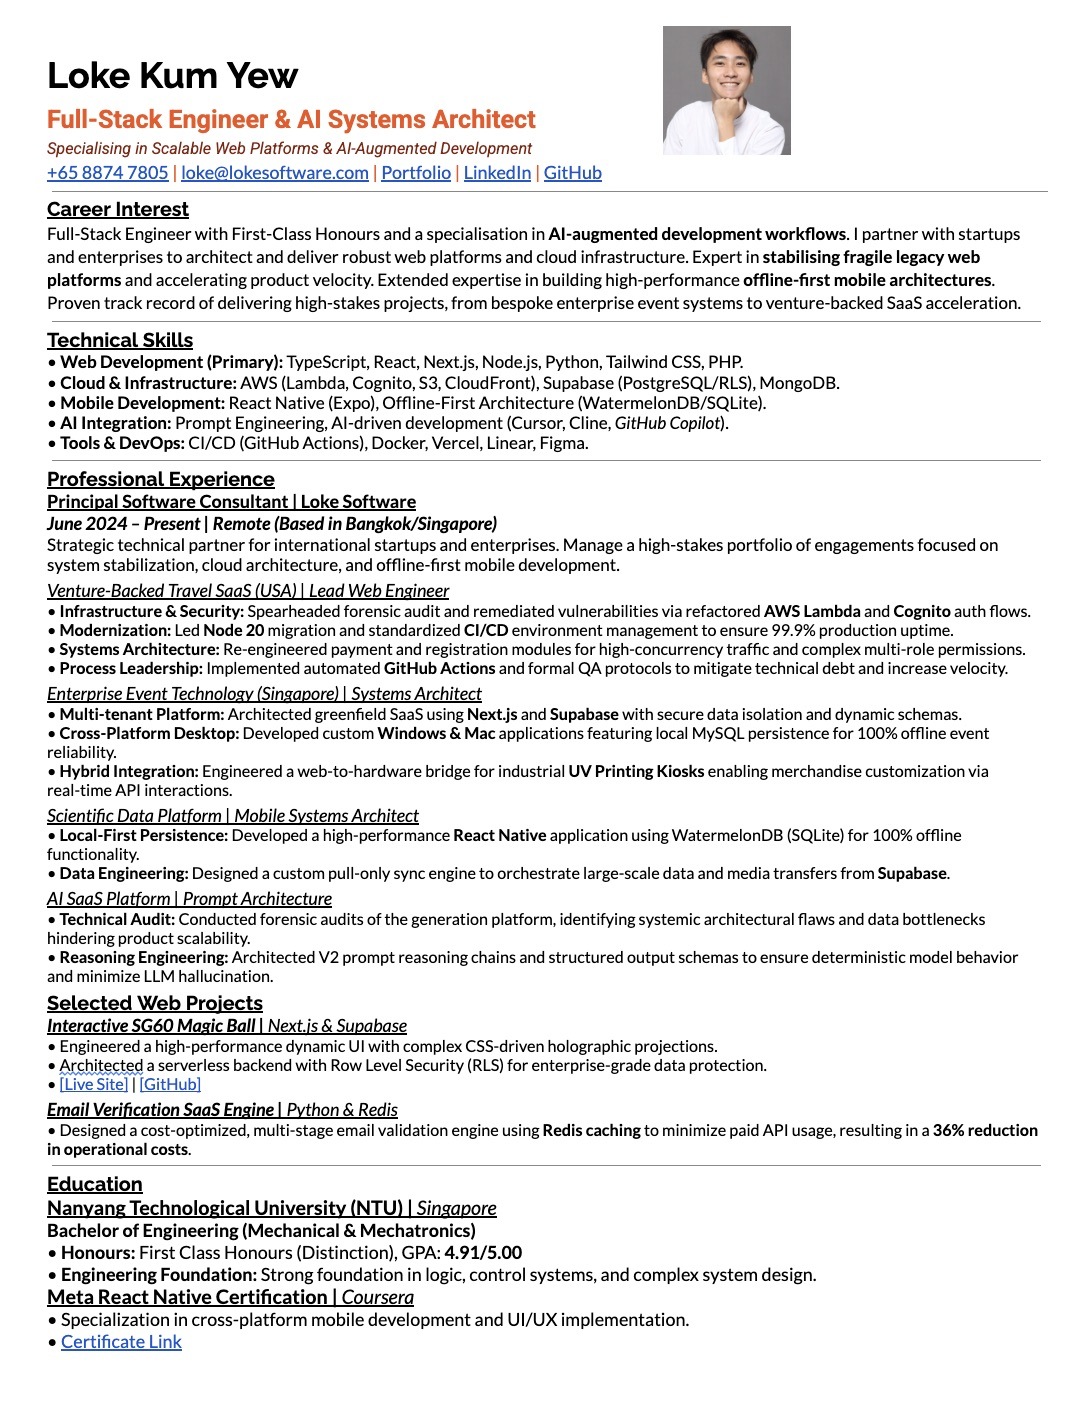
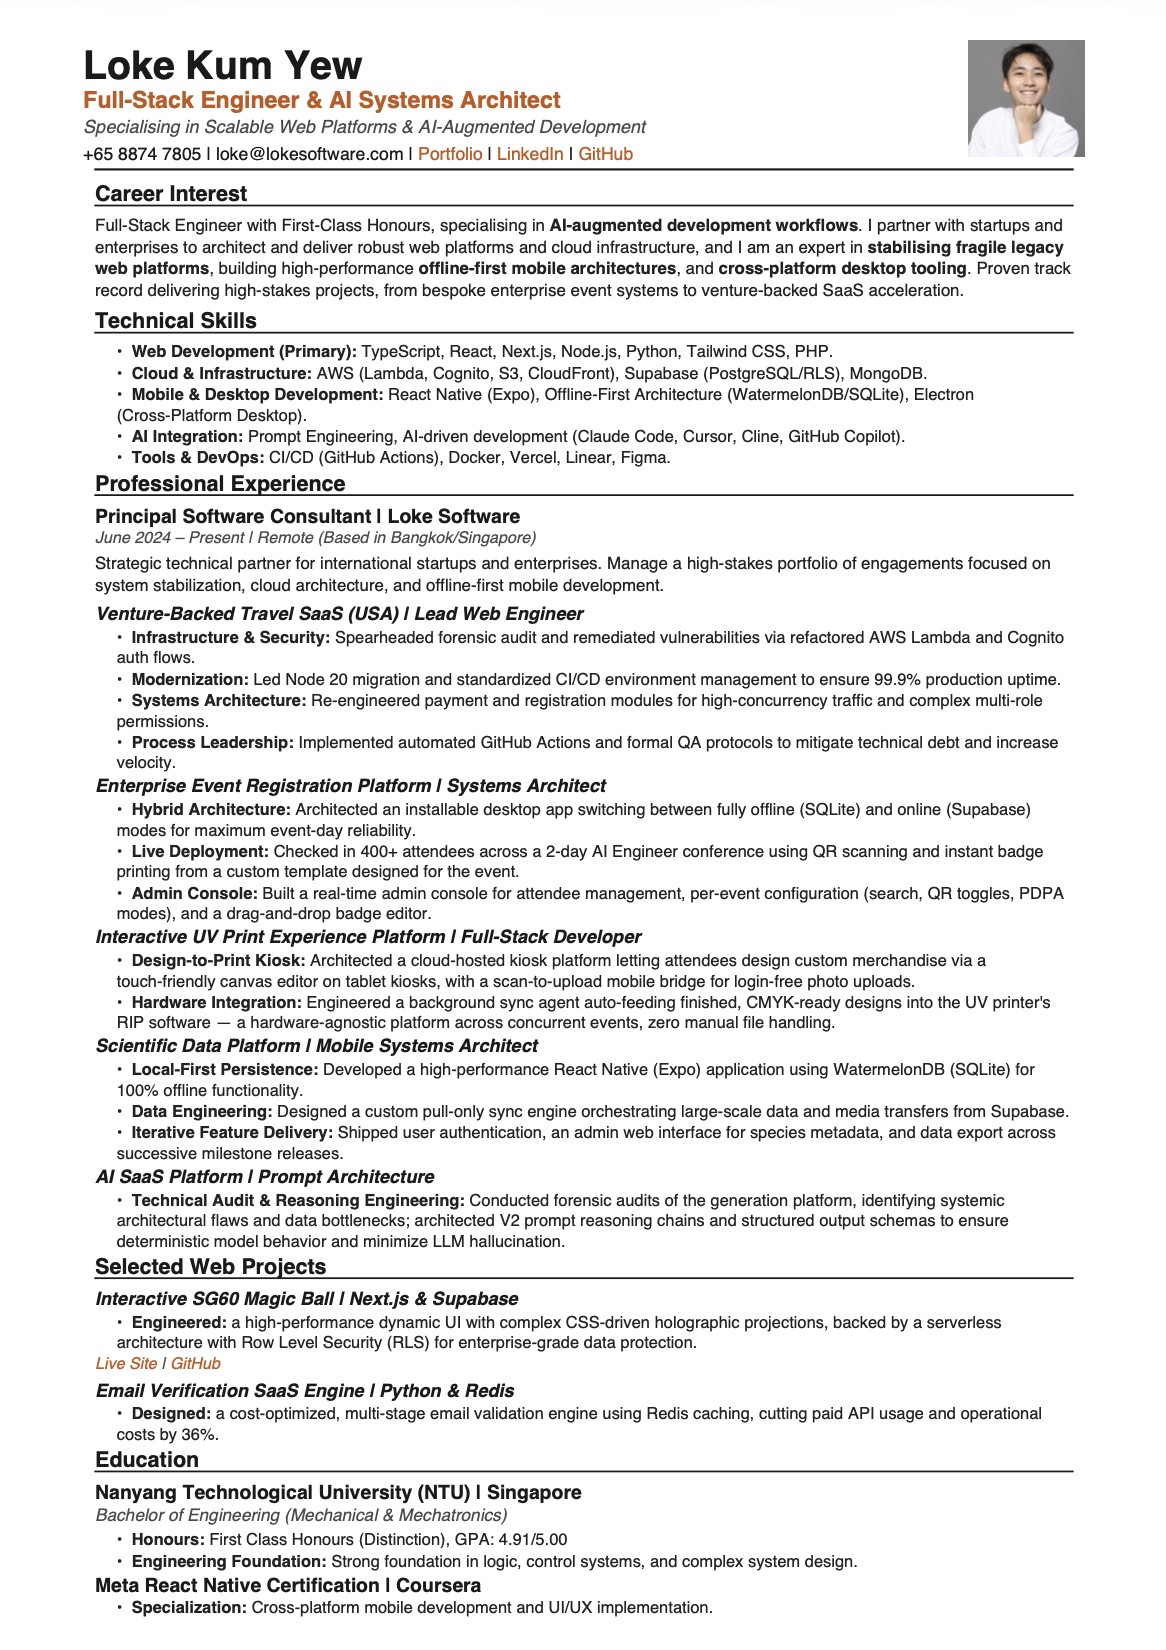
fix: replace Travel SaaS mockup and resume image assets
- travelSaas.jpg: regenerate as a clean flat dashboard screenshot
  (PIL-drawn, real text) instead of the old AI-generated image with
  garbled text and a baked-in monitor/desk that double-framed inside
  ProjectCard's LaptopFrame bezel.
- KumYewResume.jpg: replace with an updated resume render supplied by
  the user, reflecting the current portfolio copy (UV Print
  Experience Platform, hybrid architecture) instead of stale wording.
  Compressed to JPEG quality 90 (~493KB).

eventReg.jpg intentionally left alone — no NDA blocks a real
screenshot there, so the user will supply one directly rather than
using another mockup.

Changed region(s): [[0.0312, 0.0, 0.9358, 0.9902], [0.811, 0.0, 0.9358, 0.0928]]

diff --git a/tasklist.md b/tasklist.md
@@ -234,3 +234,10 @@ Priorities called out 2026-07-15, roughly in order:
 *   [X] **Pages** (`about`, `portfolio`, `resume`, `contact`): each header uses a page-specific shell-command eyebrow (`$ cat about.md`, `$ ls ./projects`, `$ cat resume.pdf`, `$ ./contact --new-inquiry`) so pages don't all repeat the same centered-h1 block.
 *   [X] **Mobile-first pass:** verified no horizontal overflow on any page at 390px width; fixed a real dead-space gap in the mobile hero (terminal card is `lg`-only, so `min-h` needed to shrink on mobile too); confirmed `NodeNetwork` correctly disables on touch devices.
 *   [X] **QA:** `npx tsc --noEmit`, `npm run lint` (had to fix a `jsx-no-comment-textnodes` false-positive from `// problem`-style labels — wrapped in `{'...'}`), full `npm run build`, and a production-mode (`npm run start`) smoke test all pass clean. Two apparent bugs during screenshot QA (blacked-out images, invisible below-the-fold cards, a "floating" nav) were confirmed to be Playwright full-page-screenshot artifacts (lazy-loaded `next/image`, `whileInView` not firing for off-screen elements, `position: fixed` compositing) — not real issues; verified with scrolled/viewport-only screenshots.
+
+**Image consistency fix (2026-07-18):** `travelSaas.jpg` and `eventReg.jpg` were environmental/photo-realistic images (a rendered iMac-on-a-desk shot, and an actual on-site event kiosk photo) that already contained their own device chrome, but `ProjectCard.tsx`'s `LaptopFrame` wraps every image in its own bezel regardless — so both cards showed a frame-within-a-frame, while the other 7 projects (flat UI-only screenshots) rendered correctly through the same component. Also noticed both existing images had AI-generation tells (garbled text: "Enterprisa Event Regsiration Platform", "Cinded is", mangled attendee names) — neither was ever a real screenshot.
+
+*   [X] `travelSaas.jpg` — NDA'd project, so a generic mockup is the right call, not just a fallback. Replaced with a newly generated flat dashboard screenshot (PIL-drawn, not AI image-gen, so no garbled-text risk) — browser chrome only, no baked-in monitor/desk. Fixes the double-frame issue.
+*   [ ] `eventReg.jpg` — no NDA with Hexlab, so a **real screenshot** would be more credible than any mockup. User will provide one directly; not actioned yet.
+
+**Resume asset (2026-07-18):** Replaced `public/images/KumYewResume.jpg` with an updated resume render supplied by the user (already reflects the Phase 6.2 copy: Interactive UV Print Experience Platform, hybrid SQLite/Supabase architecture, etc. — fixes the stale "UV Printing Kiosks"/local-MySQL wording that was still on the old resume image). Converted from the pasted PNG and compressed to JPEG (quality 90, ~493KB, under the original file's size).
